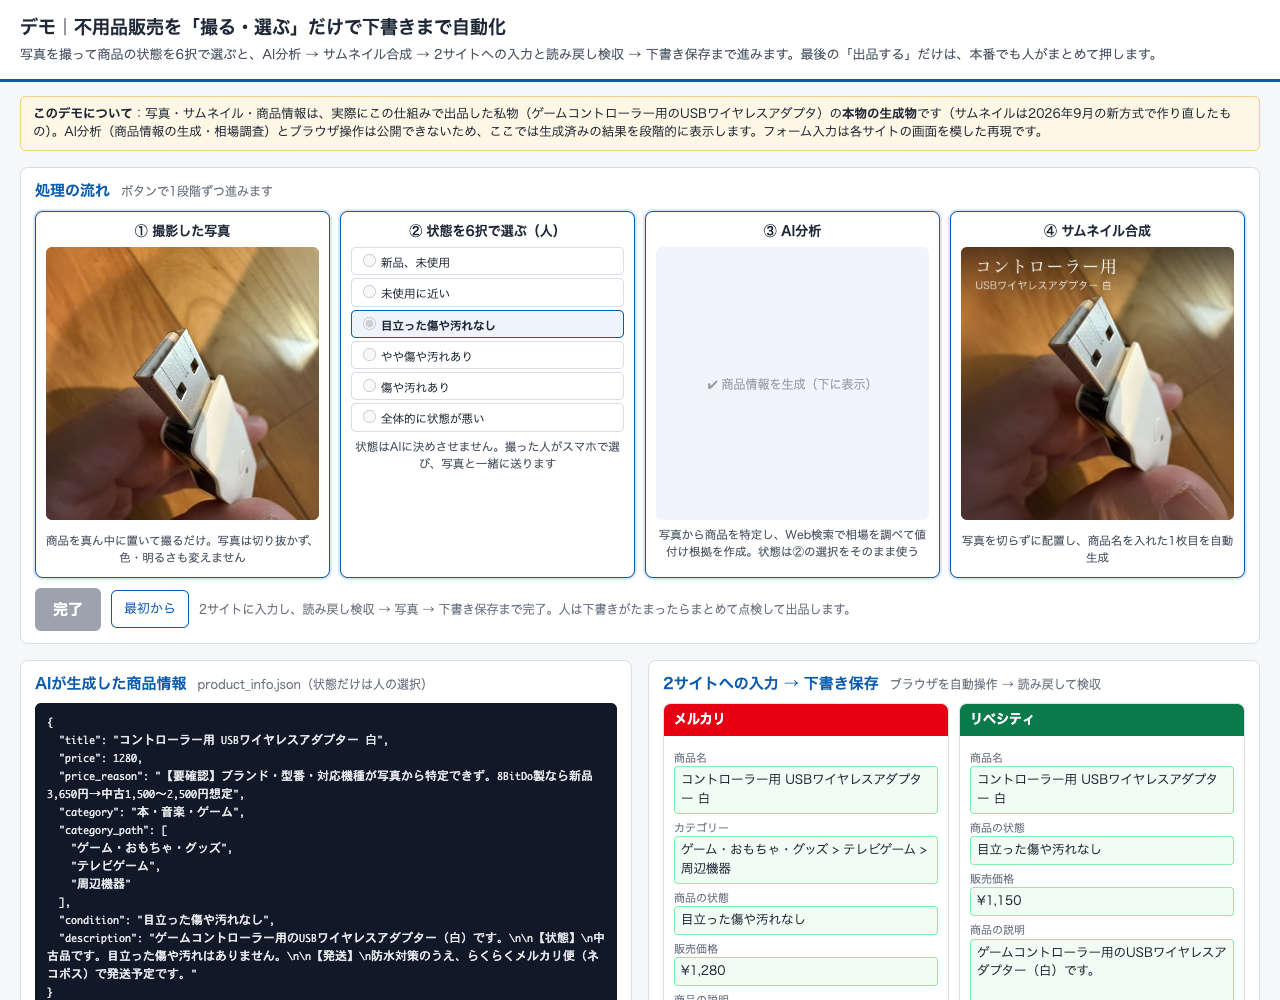
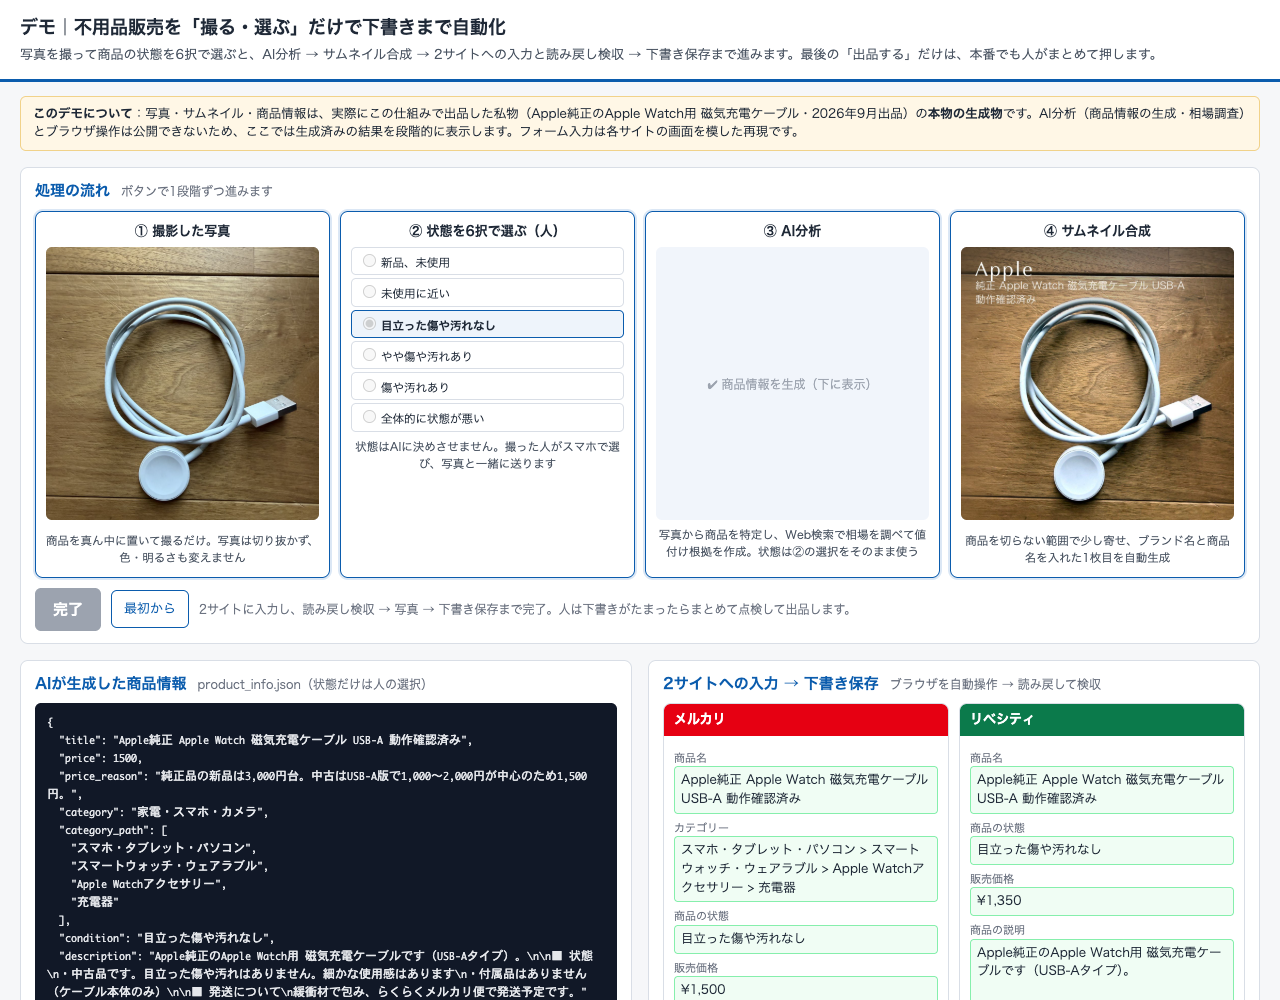
04デモの題材を2026年9月出品のApple Watch充電ケーブルに差し替え（位置情報除去済み）

diff --git a/demos/04-flea-market-autolist/index.html b/demos/04-flea-market-autolist/index.html
@@ -37,7 +37,7 @@
   <p>写真を撮って商品の状態を6択で選ぶと、AI分析 → サムネイル合成 → 2サイトへの入力と読み戻し検収 → 下書き保存まで進みます。最後の「出品する」だけは、本番でも人がまとめて押します。</p>
 </header>
 <div class="note">
-  <b>このデモについて</b>：写真・サムネイル・商品情報は、実際にこの仕組みで出品した私物（ゲームコントローラー用のUSBワイヤレスアダプタ）の<b>本物の生成物</b>です（サムネイルは2026年9月の新方式で作り直したもの）。AI分析（商品情報の生成・相場調査）とブラウザ操作は公開できないため、ここでは生成済みの結果を段階的に表示します。フォーム入力は各サイトの画面を模した再現です。
+  <b>このデモについて</b>：写真・サムネイル・商品情報は、実際にこの仕組みで出品した私物（Apple純正のApple Watch用 磁気充電ケーブル・2026年9月出品）の<b>本物の生成物</b>です。AI分析（商品情報の生成・相場調査）とブラウザ操作は公開できないため、ここでは生成済みの結果を段階的に表示します。フォーム入力は各サイトの画面を模した再現です。
 </div>
 <main>
   <section class="card">
@@ -55,7 +55,7 @@
         </div>
         <p>状態はAIに決めさせません。撮った人がスマホで選び、写真と一緒に送ります</p></div>
       <div class="st" id="s3"><h3>③ AI分析</h3><div class="ph" id="ph3">タイトル・説明文・カテゴリ・相場</div><p>写真から商品を特定し、Web検索で相場を調べて値付け根拠を作成。状態は②の選択をそのまま使う</p></div>
-      <div class="st" id="s4"><h3>④ サムネイル合成</h3><div class="ph" id="ph4">写真は全面・文字は上部</div><p>写真を切らずに配置し、商品名を入れた1枚目を自動生成</p></div>
+      <div class="st" id="s4"><h3>④ サムネイル合成</h3><div class="ph" id="ph4">ブランド名＋商品名を上部に</div><p>商品を切らない範囲で少し寄せ、ブランド名と商品名を入れた1枚目を自動生成</p></div>
     </div>
     <div class="actions" style="margin-top:10px"><button id="next">▶ 写真と状態を送る</button><button class="ghost" id="reset">最初から</button><span class="muted" id="status">② で状態を選んでから押してください（何を選ぶと説明文がどう変わるか試せます）。</span></div>
   </section>
@@ -74,15 +74,8 @@
 </main>
 <footer>戻る：<a href="../../systems/04-flea-market-autolist.md">04. 不用品販売を「撮る・選ぶ」だけで下書きまで自動化</a></footer>
 <script>
-const BASE = {"title": "コントローラー用 USBワイヤレスアダプター 白", "price": 1280, "price_reason": "【要確認】ブランド・型番・対応機種が写真から特定できず。8BitDo製なら新品3,650円→中古1,500〜2,500円想定", "category": "本・音楽・ゲーム", "category_path": ["ゲーム・おもちゃ・グッズ", "テレビゲーム", "周辺機器"]};
-const COND_TEXT = {
-  "新品、未使用": "新品・未使用品です。",
-  "未使用に近い": "数回使用したのみで、未使用に近い状態です。",
-  "目立った傷や汚れなし": "中古品です。目立った傷や汚れはありません。",
-  "やや傷や汚れあり": "中古品です。使用に伴うやや目立つ傷・汚れがあります。",
-  "傷や汚れあり": "中古品です。傷や汚れがあります。写真でご確認ください。",
-  "全体的に状態が悪い": "中古品です。全体的に使用感・傷みがあります。ジャンク扱いでお願いします。"
-};
+const BASE = {"title": "Apple純正 Apple Watch 磁気充電ケーブル USB-A 動作確認済み", "price": 1500, "price_reason": "純正品の新品は3,000円台。中古はUSB-A版で1,000〜2,000円が中心のため1,500円。", "category": "家電・スマホ・カメラ", "category_path": ["スマホ・タブレット・パソコン", "スマートウォッチ・ウェアラブル", "Apple Watchアクセサリー", "充電器"]};
+const COND_TEXT = {"新品、未使用": "新品・未使用品です。", "未使用に近い": "数回使用したのみで、未使用に近い状態です。", "目立った傷や汚れなし": "中古品です。目立った傷や汚れはありません。細かな使用感はあります", "やや傷や汚れあり": "中古品です。使用に伴うやや目立つ傷・汚れがあります", "傷や汚れあり": "中古品です。傷や汚れがあります。写真でご確認ください", "全体的に状態が悪い": "中古品です。全体的に使用感・傷みがあります"};
 let PRODUCT = null;
 let step = 1;
 const SITES = [
@@ -95,7 +88,7 @@ function build(){
   const c = chosen();
   return Object.assign({}, BASE, {
     condition: c,
-    description: `ゲームコントローラー用のUSBワイヤレスアダプター（白）です。\n\n【状態】\n${COND_TEXT[c]}\n\n【発送】\n防水対策のうえ、らくらくメルカリ便（ネコポス）で発送予定です。`
+    description: `Apple純正のApple Watch用 磁気充電ケーブルです（USB-Aタイプ）。\n\n■ 状態\n・${COND_TEXT[c]}\n・付属品はありません（ケーブル本体のみ）\n\n■ 発送について\n緩衝材で包み、らくらくメルカリ便で発送予定です。`
   });
 }
 function val(site, f){
@@ -120,13 +113,13 @@ function advance(){
   if (step===2){ document.getElementById("s2").classList.add("on"); PRODUCT=build(); document.querySelectorAll('input[name="c"]').forEach(i=>i.disabled=true);
     step=3; document.getElementById("s3").classList.add("on"); document.getElementById("json").textContent=JSON.stringify(PRODUCT,null,2); document.getElementById("ph3").textContent="✔ 商品情報を生成（下に表示）";
     st.textContent=`状態「${PRODUCT.condition}」を受け取り、AIが商品の特定・相場調査・説明文づくりをしました。説明文の【状態】は選んだ内容に合わせて書かれます。`; nx.textContent="▶ サムネイルを合成"; }
-  else if (step===4){ document.getElementById("s4").classList.add("on"); document.getElementById("ph4").outerHTML=`<img src="thumbnail.jpg" alt="サムネイル" id="ph4">`; st.textContent="写真を切らずに全面に置き、上に商品名を入れた1枚目を作りました（色・明るさは元のまま）。"; nx.textContent="▶ 2サイトに入力して下書き保存"; }
+  else if (step===4){ document.getElementById("s4").classList.add("on"); document.getElementById("ph4").outerHTML=`<img src="thumbnail.jpg" alt="サムネイル" id="ph4">`; st.textContent="商品を切らない範囲で少し寄せ、上にブランド名（Apple）と商品名を入れた1枚目を作りました（色・明るさは元のまま）。"; nx.textContent="▶ 2サイトに入力して下書き保存"; }
   else if (step===5){ renderSites(true); document.getElementById("drafts").hidden=false; st.textContent="2サイトに入力し、読み戻し検収 → 写真 → 下書き保存まで完了。人は下書きがたまったらまとめて点検して出品します。"; nx.disabled=true; nx.textContent="完了"; }
 }
 function reset(){ step=1; PRODUCT=null; ["s2","s3","s4"].forEach(id=>document.getElementById(id).classList.remove("on"));
   document.querySelectorAll('input[name="c"]').forEach(i=>i.disabled=false);
   document.getElementById("json").textContent="（③で表示されます）"; document.getElementById("ph3").textContent="タイトル・説明文・カテゴリ・相場";
-  const p4=document.getElementById("ph4"); p4.outerHTML=`<div class="ph" id="ph4">写真は全面・文字は上部</div>`;
+  const p4=document.getElementById("ph4"); p4.outerHTML=`<div class="ph" id="ph4">ブランド名＋商品名を上部に</div>`;
   document.getElementById("drafts").hidden=true; renderSites(false); const b=document.getElementById("next"); b.disabled=false; b.textContent="▶ 写真と状態を送る"; document.getElementById("status").textContent="② で状態を選んでから押してください（何を選ぶと説明文がどう変わるか試せます）。"; }
 document.getElementById("next").addEventListener("click", advance);
 document.getElementById("reset").addEventListener("click", reset);

diff --git a/systems/04-flea-market-autolist.md b/systems/04-flea-market-autolist.md
@@ -8,7 +8,7 @@
 | 出力 | メルカリ・リベシティの**下書き**（人がまとめて点検して出品）と、毎晩の自動値下げ |
 
 > ### ▶ [触って試せるデモを開く](https://nihonbare1979-cmd.github.io/ai-life-automation-showcase/demos/04-flea-market-autolist/)
-> 実際にこの仕組みで出品した私物（USBワイヤレスアダプタ）の元写真から、状態の選択 → AIが作った商品情報 → サムネイル → 2サイトへの入力と読み戻し検収 → 下書き保存までを、処理の順に再現します。
+> 実際にこの仕組みで出品した私物（Apple Watch用の磁気充電ケーブル）の元写真から、状態の選択 → AIが作った商品情報 → サムネイル → 2サイトへの入力と読み戻し検収 → 下書き保存までを、処理の順に再現します。
 > （GitHub Pages で公開。リポジトリ内のファイルは [`demos/04-flea-market-autolist/`](../demos/04-flea-market-autolist/index.html)）
 
 ## 実際の画面
